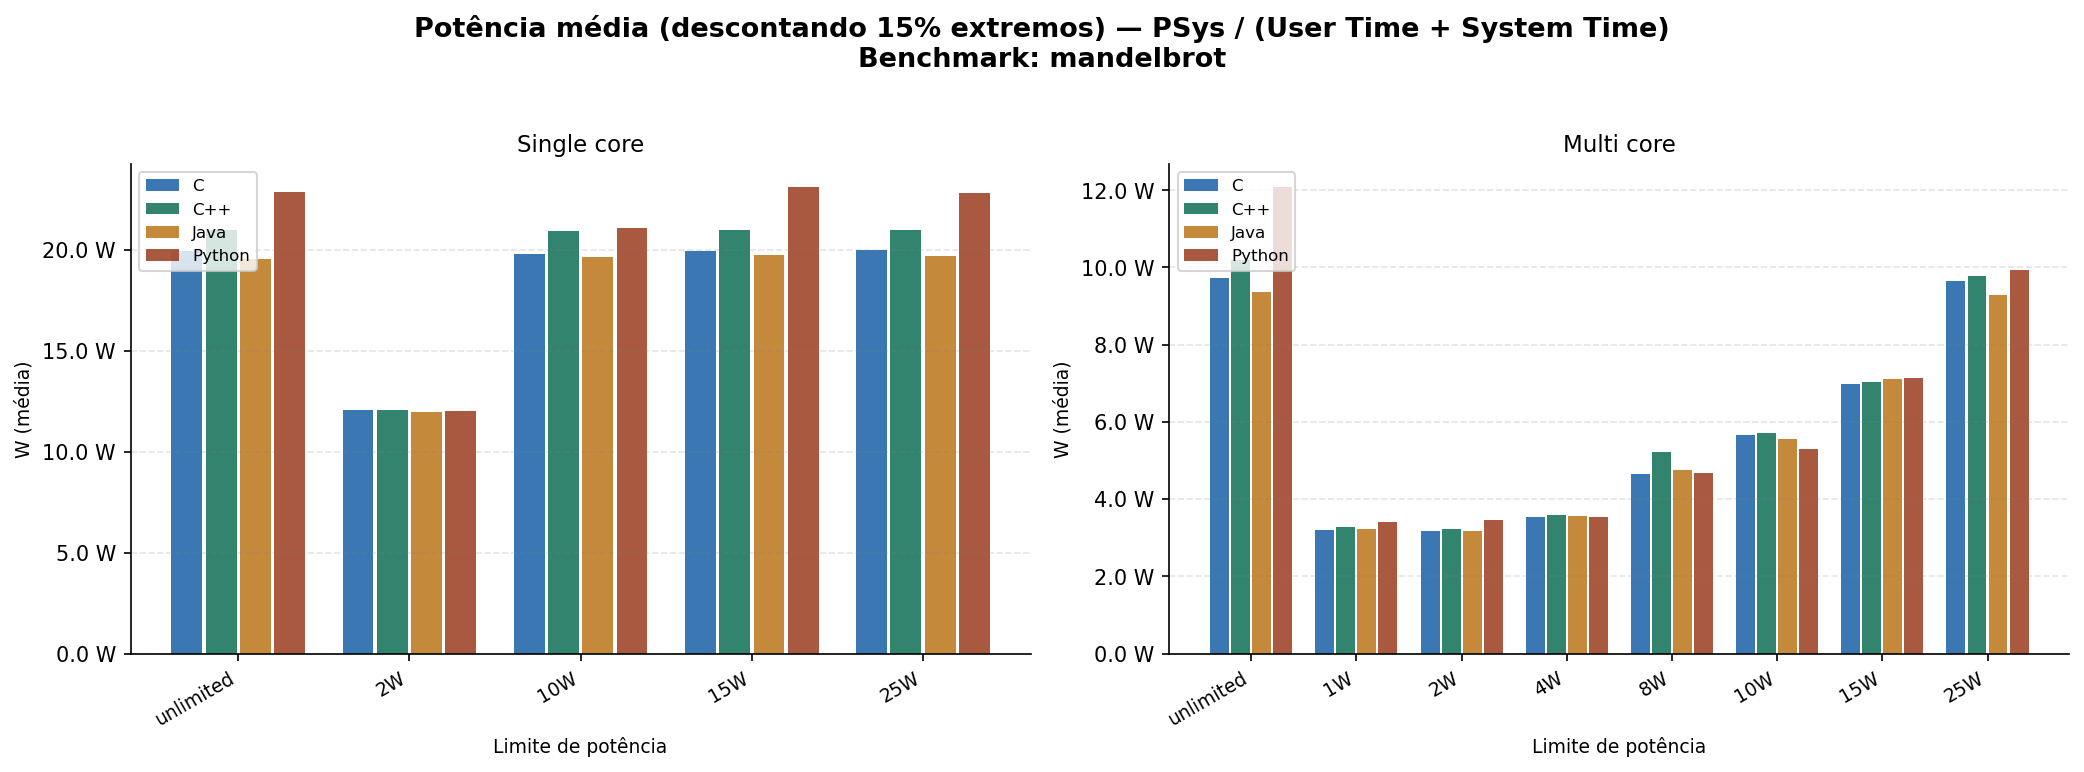
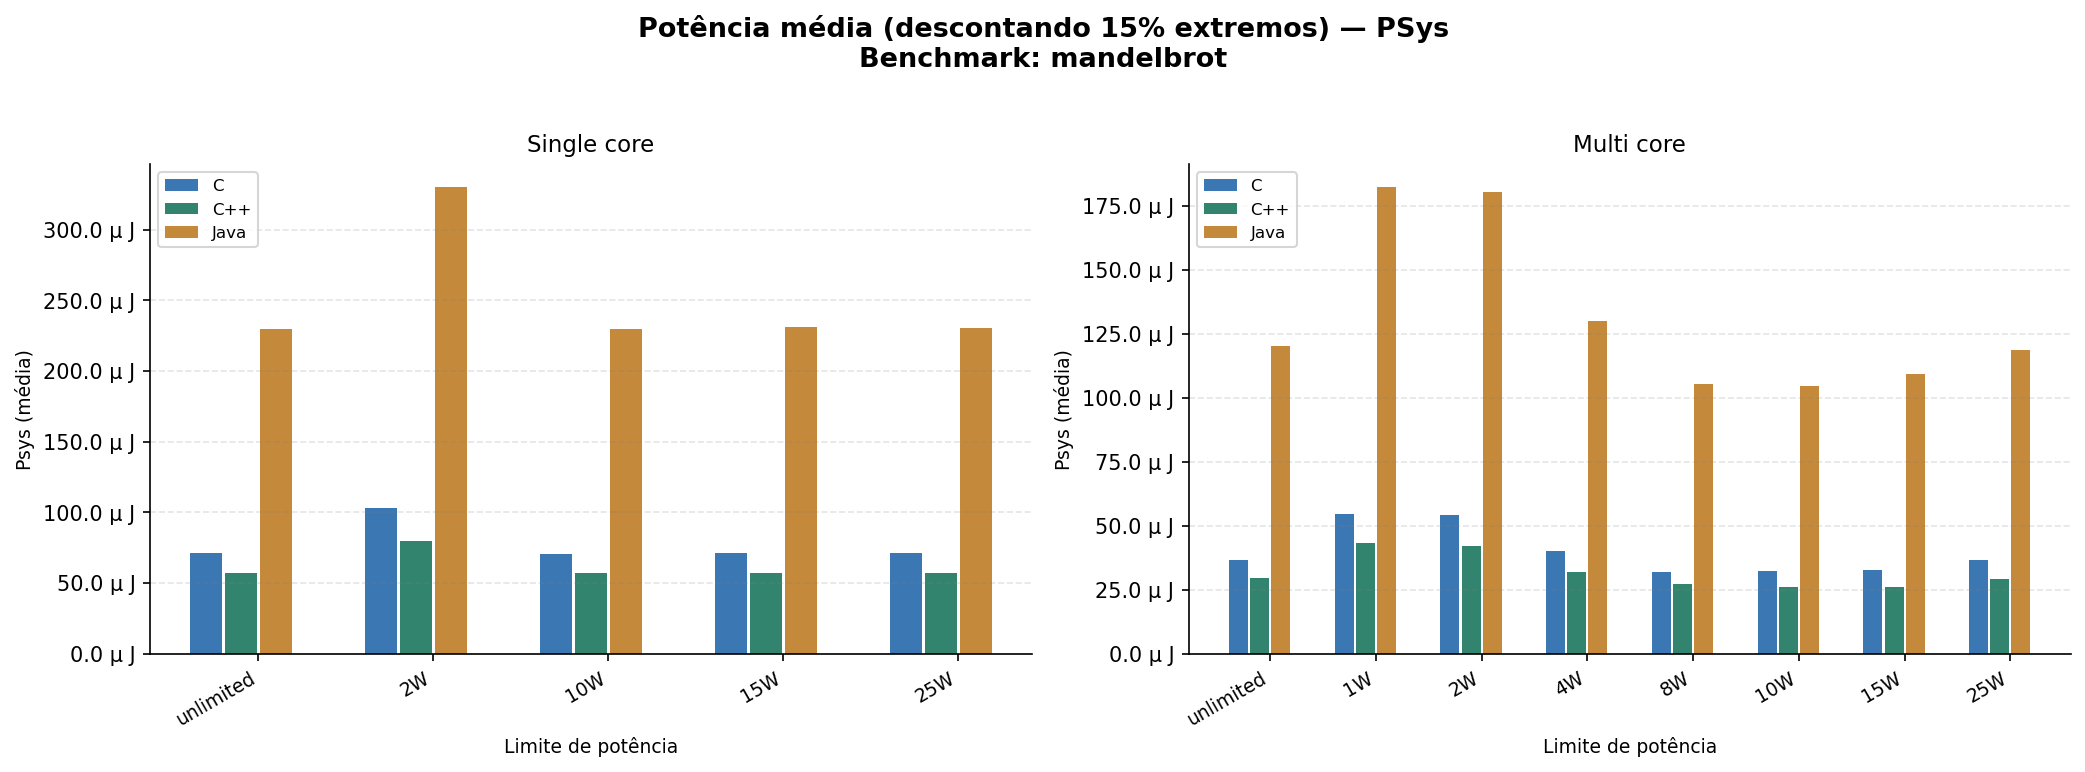
graficos descartando valores maiores/menores e fazendo media

diff --git a/Claude/plot_power_cpu_time_media_descartando_linha.py b/Claude/plot_power_cpu_time_media_descartando_linha.py
@@ -1,0 +1,198 @@
+"""
+plot_power_cpu_time.py
+======================
+Gera gráficos de potência (PSys / (User Time + System Time)) por benchmark,
+linguagem e limite de potência para dois experimentos: single core e multi core.
+
+Uso:
+    python plot_power_cpu_time.py \
+        --single measurements-single-elite-perf-01042026.csv \
+        --mult   measurements-mult-elite-perf-27-03-2026.csv
+
+Dependências:
+    pip install pandas matplotlib
+"""
+
+import argparse
+from pathlib import Path
+
+import matplotlib.pyplot as plt
+import matplotlib.ticker as ticker
+import pandas as pd
+import numpy as np
+
+
+# ---------------------------------------------------------------------------
+# Configuração
+# ---------------------------------------------------------------------------
+
+LANG_COLORS = {
+    "C":      "#185FA5",
+    "C++":    "#0F6E56",
+    "Java":   "#BA7517",
+    "Python": "#993C1D",
+}
+LANGUAGES = ["C", "C++", "Java", "Python"]
+
+SINGLE_POWERS = [-1, 2, 10, 15, 25]
+MULT_POWERS   = [-1, 1, 2, 4, 8, 10, 15, 25]
+
+def power_label(p):
+    return "unlimited" if p == -1 else f"{p}W"
+
+
+# ---------------------------------------------------------------------------
+# Leitura e pré-processamento
+# ---------------------------------------------------------------------------
+
+def load(path: str, experiment: str) -> pd.DataFrame:
+    df = pd.read_csv(path)
+    df.columns = df.columns.str.strip()
+    df["Program"] = df["Program"].str.strip()
+    df["experiment"] = experiment
+    df["cpu_time_ms"] = df["User Time"] + df["System Time"]
+    df["power_W"] = df["PSys"] / df["cpu_time_ms"] * 1000
+    return df
+
+
+def compute_summary(df: pd.DataFrame) -> pd.DataFrame:
+    def _trim_group_by_power(grp: pd.DataFrame) -> pd.DataFrame:
+        vals = grp["power_W"].dropna().values
+        n = vals.size
+        if n == 0:
+            return grp
+        k = int(n * 0.15)
+        if k == 0 or (n - 2 * k) <= 0:
+            return grp
+        grp_sorted = grp.sort_values("power_W")
+        return grp_sorted.iloc[k : n - k]
+
+    group_cols = ["experiment", "Language", "Program", "PowerLimit"]
+
+    def _agg_after_trim(grp: pd.DataFrame) -> pd.Series:
+        t = _trim_group_by_power(grp)
+        def mean_or_nan(s: pd.Series) -> float:
+            arr = s.dropna()
+            return float(arr.mean()) if not arr.empty else float("nan")
+
+        return pd.Series(
+            {
+                "mean_power_W": mean_or_nan(t["power_W"]),
+                "mean_user_time": mean_or_nan(t["User Time"]),
+                "mean_system_time": mean_or_nan(t["System Time"]),
+            }
+        )
+
+    summary = df.groupby(group_cols).apply(_agg_after_trim).reset_index()
+
+    summary = summary.rename(
+        columns={"Language": "language", "Program": "benchmark", "PowerLimit": "power_limit"}
+    )
+
+    cols = ["experiment", "language", "benchmark", "power_limit", "mean_power_W", "mean_user_time", "mean_system_time"]
+    return summary[cols]
+
+
+# ---------------------------------------------------------------------------
+# Plot
+# ---------------------------------------------------------------------------
+
+def plot_benchmark(summary: pd.DataFrame, benchmark: str, out_dir: Path,
+                   scale: str = "linear") -> None:
+    """Gera um único arquivo PNG com dois subplots (single | multi) para um benchmark."""
+
+    fig, axes = plt.subplots(1, 2, figsize=(14, 5), sharey=False)
+    fig.suptitle(
+        f"Potência média (descontando 15% extremos) — PSys / (User Time + System Time)\nBenchmark: {benchmark}",
+        fontsize=13, fontweight="bold", y=1.02,
+    )
+
+    configs = [
+        ("single", SINGLE_POWERS, axes[0], "Single core"),
+        ("mult",   MULT_POWERS,   axes[1], "Multi core"),
+    ]
+
+    n_langs = len(LANGUAGES)
+
+    for exp, powers, ax, title in configs:
+        sub = summary[(summary["experiment"] == exp) & (summary["benchmark"] == benchmark)]
+
+        x = range(len(powers))
+        bar_width = 0.8 / n_langs
+
+        for i, lang in enumerate(LANGUAGES):
+            lang_data = sub[sub["language"] == lang].set_index("power_limit")["mean_power_W"]
+            values = [lang_data.get(p, float("nan")) for p in powers]
+            offsets = [xi + (i - n_langs / 2 + 0.5) * bar_width for xi in x]
+            ax.bar(
+                offsets, values,
+                width=bar_width * 0.9,
+                color=LANG_COLORS[lang],
+                alpha=0.85,
+                label=lang,
+            )
+
+        ax.set_title(title, fontsize=11)
+        ax.set_xticks(list(x))
+        ax.set_xticklabels([power_label(p) for p in powers], rotation=30, ha="right", fontsize=9)
+        ax.set_xlabel("Limite de potência", fontsize=9)
+        ax.set_ylabel("W (média)", fontsize=9)
+        ax.set_yscale(scale)
+        ax.yaxis.set_major_formatter(ticker.FormatStrFormatter("%.1f W"))
+        ax.grid(axis="y", color="gray", alpha=0.2, linestyle="--")
+        ax.spines[["top", "right"]].set_visible(False)
+        ax.legend(fontsize=8, loc="upper left")
+
+    fig.tight_layout()
+    safe_name = benchmark.replace("-", "_")
+    out_path = out_dir / f"power_cpu_{safe_name}_{scale}.png"
+    fig.savefig(out_path, dpi=150, bbox_inches="tight")
+    plt.close(fig)
+    print(f"  Salvo: {out_path}")
+
+
+def plot_all(summary: pd.DataFrame, out_dir: Path, scale: str = "linear") -> None:
+    benchmarks = sorted(summary["benchmark"].unique())
+    print(f"\nGerando {len(benchmarks)} gráfico(s) — escala {scale}...")
+    for bench in benchmarks:
+        plot_benchmark(summary, bench, out_dir, scale)
+
+
+# ---------------------------------------------------------------------------
+# Entrypoint
+# ---------------------------------------------------------------------------
+
+def main() -> None:
+    parser = argparse.ArgumentParser(description="Plota potência por CPU time (single vs mult)")
+    parser.add_argument("--single", required=True, help="CSV do experimento single core")
+    parser.add_argument("--mult",   required=True, help="CSV do experimento multi core")
+    parser.add_argument("--out",    default="plots", help="Diretório de saída (default: plots/)")
+    parser.add_argument("--scale",  default="linear", choices=["linear", "log"],
+                        help="Escala do eixo Y: linear ou log (default: linear)")
+    parser.add_argument("--benchmark", default=None,
+                        help="Gerar apenas um benchmark específico (opcional)")
+    args = parser.parse_args()
+
+    out_dir = Path(args.out)
+    out_dir.mkdir(parents=True, exist_ok=True)
+
+    print("Carregando dados...")
+    df_single = load(args.single, "single")
+    df_mult   = load(args.mult,   "mult")
+    df = pd.concat([df_single, df_mult], ignore_index=True)
+
+    summary = compute_summary(df)
+
+    mpl_scale = "log" if args.scale == "log" else "linear"
+
+    if args.benchmark:
+        plot_benchmark(summary, args.benchmark, out_dir, mpl_scale)
+    else:
+        plot_all(summary, out_dir, mpl_scale)
+
+    print("\nConcluído.")
+
+
+if __name__ == "__main__":
+    main()
+

diff --git a/Claude/plot_psys_cpu_time_media_descartando_linha.py b/Claude/plot_psys_cpu_time_media_descartando_linha.py
@@ -1,0 +1,200 @@
+"""
+plot_power_cpu_time.py
+======================
+Gera gráficos de potência (PSys / (User Time + System Time)) por benchmark,
+linguagem e limite de potência para dois experimentos: single core e multi core.
+
+Uso:
+    python plot_power_cpu_time.py \
+        --single measurements-single-elite-perf-01042026.csv \
+        --mult   measurements-mult-elite-perf-27-03-2026.csv
+
+Dependências:
+    pip install pandas matplotlib
+"""
+
+import argparse
+from pathlib import Path
+
+import matplotlib.pyplot as plt
+import matplotlib.ticker as ticker
+import pandas as pd
+import numpy as np
+
+
+# ---------------------------------------------------------------------------
+# Configuração
+# ---------------------------------------------------------------------------
+
+LANG_COLORS = {
+    "C":      "#185FA5",
+    "C++":    "#0F6E56",
+    "Java":   "#BA7517",
+    "Python": "#993C1D",
+}
+LANGUAGES = ["C", "C++", "Java", "Python"]
+
+SINGLE_POWERS = [-1, 2, 10, 15, 25]
+MULT_POWERS   = [-1, 1, 2, 4, 8, 10, 15, 25]
+
+def power_label(p):
+    return "unlimited" if p == -1 else f"{p}W"
+
+
+# ---------------------------------------------------------------------------
+# Leitura e pré-processamento
+# ---------------------------------------------------------------------------
+
+def load(path: str, experiment: str) -> pd.DataFrame:
+    df = pd.read_csv(path)
+    df.columns = df.columns.str.strip()
+    df["Program"] = df["Program"].str.strip()
+    df["experiment"] = experiment
+    df["cpu_time_ms"] = df["User Time"] + df["System Time"]
+    #df["power_W"] = df["PSys"] 
+    return df
+
+
+def compute_summary(df: pd.DataFrame) -> pd.DataFrame:
+    def _trim_group_by_power(grp: pd.DataFrame) -> pd.DataFrame:
+        vals = grp["PSys"].dropna().values
+        n = vals.size
+        if n == 0:
+            return grp
+        k = int(n * 0.15)
+        if k == 0 or (n - 2 * k) <= 0:
+            return grp
+        grp_sorted = grp.sort_values("PSys")
+        return grp_sorted.iloc[k : n - k]
+
+    group_cols = ["experiment", "Language", "Program", "PowerLimit"]
+
+    def _agg_after_trim(grp: pd.DataFrame) -> pd.Series:
+        t = _trim_group_by_power(grp)
+        def mean_or_nan(s: pd.Series) -> float:
+            arr = s.dropna()
+            return float(arr.mean()) if not arr.empty else float("nan")
+
+        return pd.Series(
+            {
+                "mean_PSys": mean_or_nan(t["PSys"]),
+                "mean_user_time": mean_or_nan(t["User Time"]),
+                "mean_system_time": mean_or_nan(t["System Time"]),
+            }
+        )
+
+    summary = df.groupby(group_cols).apply(_agg_after_trim).reset_index()
+
+    summary = summary.rename(
+        columns={"Language": "language", "Program": "benchmark", "PowerLimit": "power_limit"}
+    )
+
+    cols = ["experiment", "language", "benchmark", "power_limit", "mean_PSys", "mean_user_time", "mean_system_time"]
+    return summary[cols]
+
+
+# ---------------------------------------------------------------------------
+# Plot
+# ---------------------------------------------------------------------------
+
+def plot_benchmark(summary: pd.DataFrame, benchmark: str, out_dir: Path,
+                   scale: str = "linear") -> None:
+    """Gera um único arquivo PNG com dois subplots (single | multi) para um benchmark."""
+
+    fig, axes = plt.subplots(1, 2, figsize=(14, 5), sharey=False)
+    fig.suptitle(
+        f"Potência média (descontando 15% extremos) — PSys\nBenchmark: {benchmark}",
+        fontsize=13, fontweight="bold", y=1.02,
+    )
+
+    configs = [
+        ("single", SINGLE_POWERS, axes[0], "Single core"),
+        ("mult",   MULT_POWERS,   axes[1], "Multi core"),
+    ]
+
+    n_langs = len(LANGUAGES)
+
+    for exp, powers, ax, title in configs:
+        sub = summary[(summary["experiment"] == exp) & (summary["benchmark"] == benchmark)]
+
+        x = range(len(powers))
+        bar_width = 0.8 / n_langs
+
+        for i, lang in enumerate(LANGUAGES):
+            if lang == "Python":
+                continue
+            lang_data = sub[sub["language"] == lang].set_index("power_limit")["mean_PSys"]
+            values = [lang_data.get(p, float("nan")) for p in powers]
+            offsets = [xi + (i - n_langs / 2 + 0.5) * bar_width for xi in x]
+            ax.bar(
+                offsets, values,
+                width=bar_width * 0.9,
+                color=LANG_COLORS[lang],
+                alpha=0.85,
+                label=lang,
+            )
+
+        ax.set_title(title, fontsize=11)
+        ax.set_xticks(list(x))
+        ax.set_xticklabels([power_label(p) for p in powers], rotation=30, ha="right", fontsize=9)
+        ax.set_xlabel("Limite de potência", fontsize=9)
+        ax.set_ylabel("Psys (média)", fontsize=9)
+        ax.set_yscale(scale)
+        ax.yaxis.set_major_formatter(ticker.FormatStrFormatter("%.1f \u00B5 J"))
+        ax.grid(axis="y", color="gray", alpha=0.2, linestyle="--")
+        ax.spines[["top", "right"]].set_visible(False)
+        ax.legend(fontsize=8, loc="upper left")
+
+    fig.tight_layout()
+    safe_name = benchmark.replace("-", "_")
+    out_path = out_dir / f"power_cpu_{safe_name}_{scale}.png"
+    fig.savefig(out_path, dpi=150, bbox_inches="tight")
+    plt.close(fig)
+    print(f"  Salvo: {out_path}")
+
+
+def plot_all(summary: pd.DataFrame, out_dir: Path, scale: str = "linear") -> None:
+    benchmarks = sorted(summary["benchmark"].unique())
+    print(f"\nGerando {len(benchmarks)} gráfico(s) — escala {scale}...")
+    for bench in benchmarks:
+        plot_benchmark(summary, bench, out_dir, scale)
+
+
+# ---------------------------------------------------------------------------
+# Entrypoint
+# ---------------------------------------------------------------------------
+
+def main() -> None:
+    parser = argparse.ArgumentParser(description="Plota potência por CPU time (single vs mult)")
+    parser.add_argument("--single", required=True, help="CSV do experimento single core")
+    parser.add_argument("--mult",   required=True, help="CSV do experimento multi core")
+    parser.add_argument("--out",    default="plots", help="Diretório de saída (default: plots/)")
+    parser.add_argument("--scale",  default="linear", choices=["linear", "log"],
+                        help="Escala do eixo Y: linear ou log (default: linear)")
+    parser.add_argument("--benchmark", default=None,
+                        help="Gerar apenas um benchmark específico (opcional)")
+    args = parser.parse_args()
+
+    out_dir = Path(args.out)
+    out_dir.mkdir(parents=True, exist_ok=True)
+
+    print("Carregando dados...")
+    df_single = load(args.single, "single")
+    df_mult   = load(args.mult,   "mult")
+    df = pd.concat([df_single, df_mult], ignore_index=True)
+
+    summary = compute_summary(df)
+
+    mpl_scale = "log" if args.scale == "log" else "linear"
+
+    if args.benchmark:
+        plot_benchmark(summary, args.benchmark, out_dir, mpl_scale)
+    else:
+        plot_all(summary, out_dir, mpl_scale)
+
+    print("\nConcluído.")
+
+
+if __name__ == "__main__":
+    main()
+
